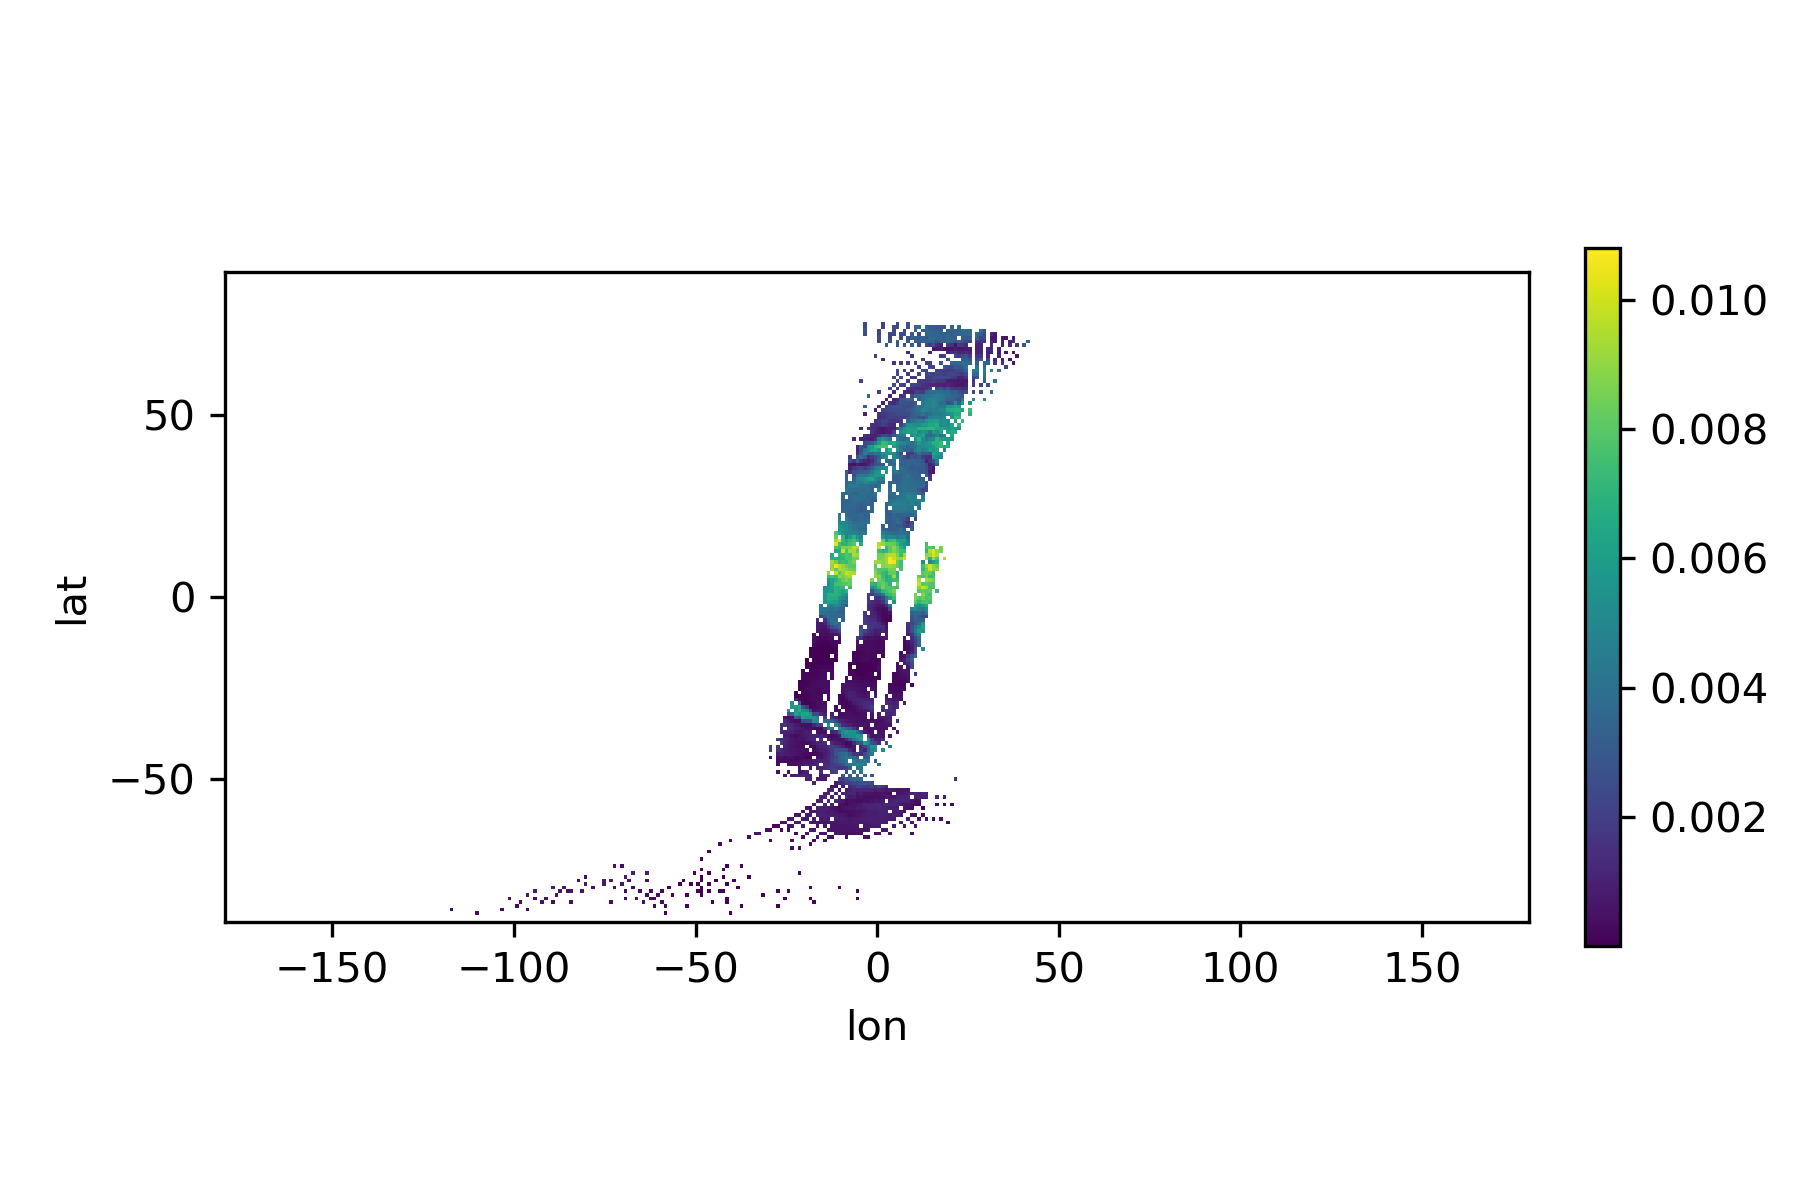
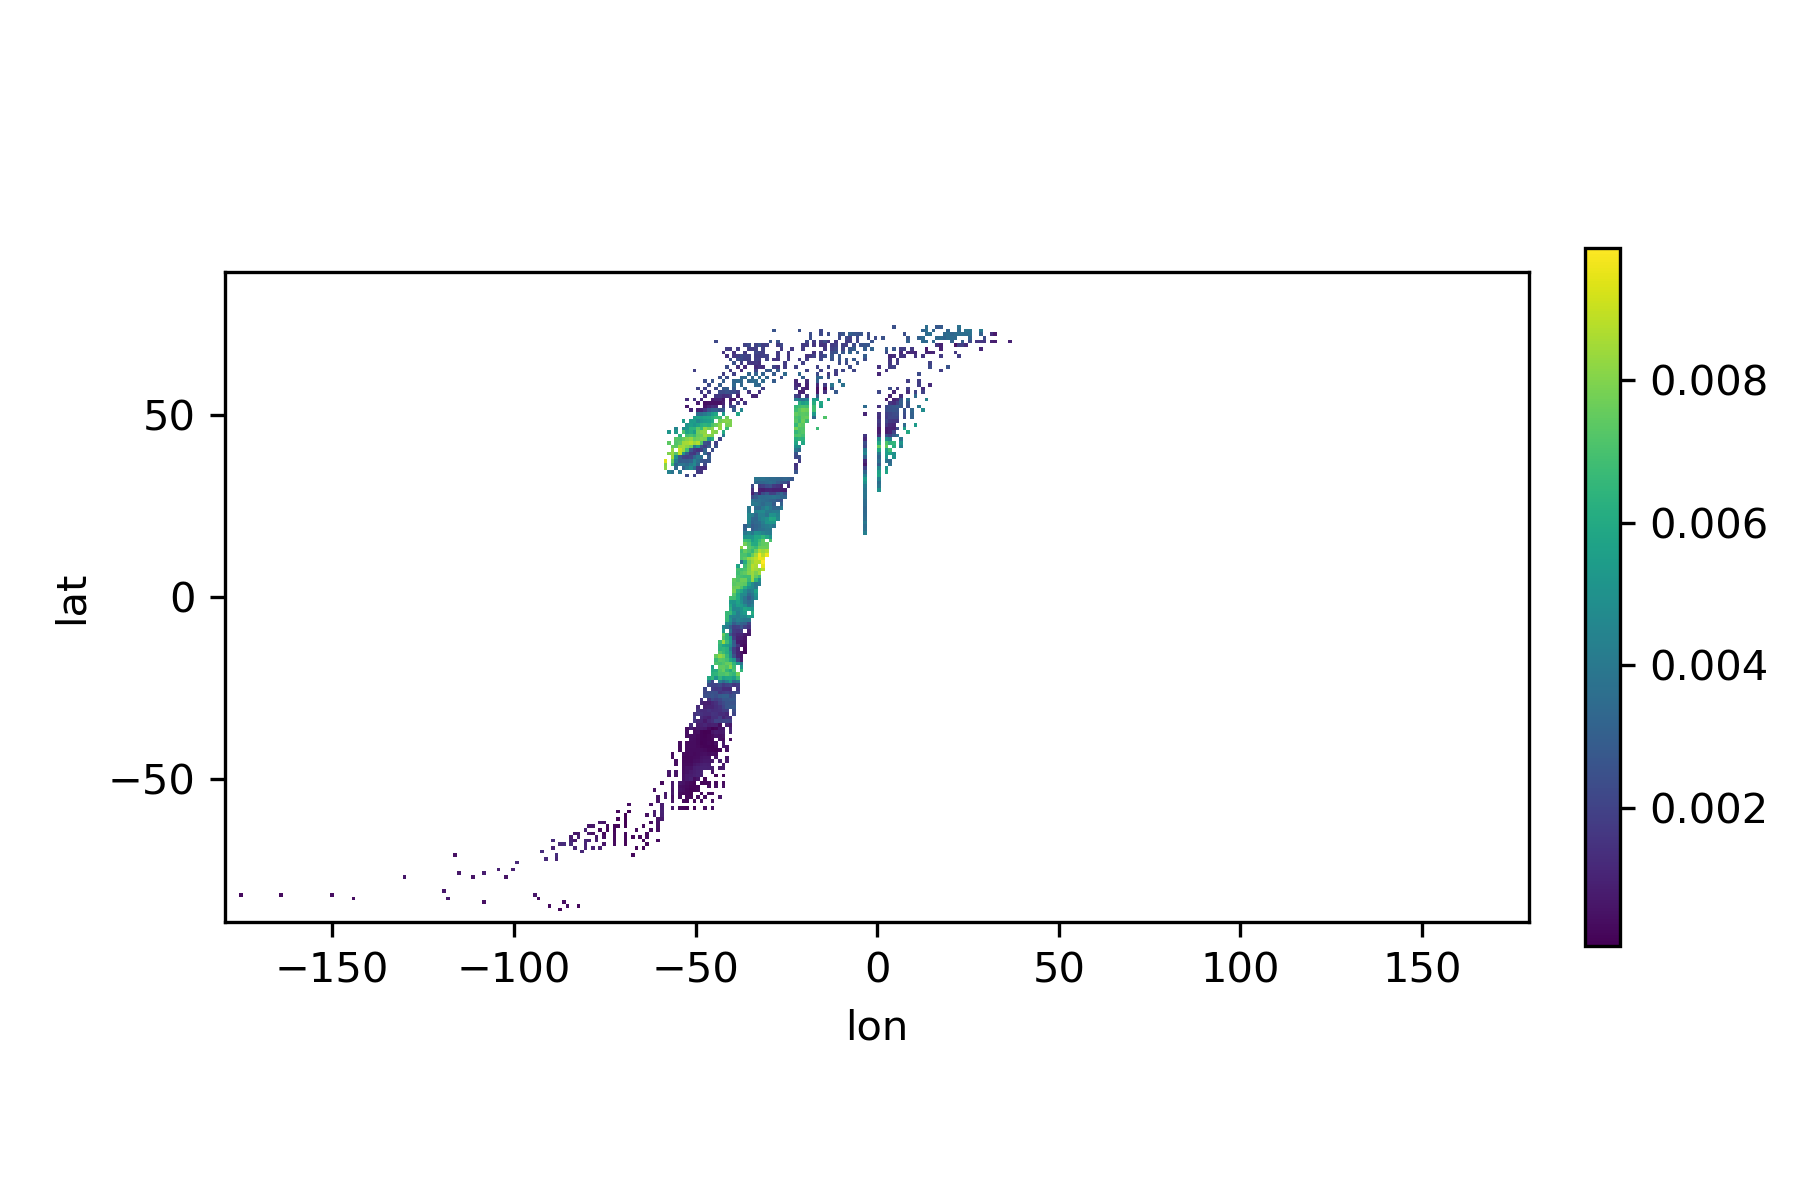
optical flow implemented on swathes

diff --git a/src/first_stage_amv.py b/src/first_stage_amv.py
@@ -10,6 +10,7 @@ import xarray as xr
 import numpy as np
 import metpy.calc as mpcalc
 from metpy.units import units
+import inpainter 
 import cProfile
 
 
@@ -17,25 +18,30 @@ import cProfile
 R = 6371000
 dt_inv=1/3600
 
-label='specific_humidity_mean'
+LABEL='specific_humidity_mean'
 
 
 
 def calc(frame0, frame):
-     nframe0 = cv2.normalize(src=frame0, dst=None,
+    if frame0.shape != frame.shape:
+        frame=np.resize(frame, frame0.shape)
+    
+    
+    nframe0 = cv2.normalize(src=frame0, dst=None,
                             alpha=0, beta=255, norm_type=cv2.NORM_MINMAX, dtype=cv2.CV_8UC1)
-     nframe = cv2.normalize(src=frame, dst=None,
+    nframe = cv2.normalize(src=frame, dst=None,
                             alpha=0, beta=255, norm_type=cv2.NORM_MINMAX, dtype=cv2.CV_8UC1)
-     optical_flow = cv2.optflow.createOptFlow_DeepFlow()
-     flowd = optical_flow.calc(nframe0, nframe, None)
-     flowx=flowd[:,:,0]
-     flowy=flowd[:,:,1]
+    optical_flow = cv2.optflow.createOptFlow_DeepFlow()
+    flowd = optical_flow.calc(nframe0, nframe, None)
+    flowx=flowd[:,:,0]
+    flowy=flowd[:,:,1]
      
-     return flowx, flowy
+    return flowx, flowy
  
-def frame_retreiver(ds, satellite):
-    frame= ds[label].loc[{'satellite':satellite}].values        
+def frame_retreiver(ds):
+    frame= ds[LABEL].values        
     frame[frame == 0] = np.nan
+    frame=inpainter.drop_nan(frame)
     return frame
     
 def ds_unit_calc0(ds, day,pressure, time):
@@ -53,31 +59,79 @@ def ds_unit_calc(ds, day,pressure, time):
     suma=0
     latlona=ds['latitude'].values.shape[0]*ds['longitude'].values.shape[0]
     print(latlona)
-    ds_unit=ds.loc[{'day':day ,'plev':pressure,'time':time}]
-    ds_unit['humidity_overlap'] = xr.full_like(ds_unit['specific_humidity_mean'], fill_value=np.nan)
-    
-    ds_j1=ds_unit.loc[{'satellite':'j1'}]
-    ds_snpp=ds_unit.loc[{'satellite':'snpp'}]
+    ds=ds.loc[{'day':day ,'plev':pressure,'time':time}]
+    ds=ds.drop(['day','plev','time'])
+    ds['humidity_overlap'] = xr.full_like(ds['specific_humidity_mean'], fill_value=np.nan)
+    ds['flowx'] = xr.full_like(ds['specific_humidity_mean'], fill_value=np.nan)
+    ds['flowy'] = xr.full_like(ds['specific_humidity_mean'], fill_value=np.nan)
 
-    
-    condition1=xr.ufuncs.logical_not(xr.ufuncs.isnan(ds_j1['obs_time']))
-    condition2=xr.ufuncs.logical_not(xr.ufuncs.isnan(ds_snpp['obs_time']))
-    
-    ds_unit['humidity_overlap'].loc[{'satellite':'j1'}]=ds_j1['specific_humidity_mean'] .where(
-        condition1 & condition2)
-    ds_unit['humidity_overlap'].loc[{'satellite':'snpp'}]=ds_snpp['specific_humidity_mean'].where(
-        condition1 & condition2)
-        
-        
-    mind=ds_unit['obs_time'].min(skipna=True).values
-    hours=np.arange(2,14,2)
+    df=ds.to_dataframe()
+
+    dhours=1      
+    mind=ds['obs_time'].min(skipna=True).values
+    hours=np.arange(dhours,5,dhours)
     swathes=[]
-    swathes.append([mind, mind+np.timedelta64(2, 'h')])
+
+    swathes.append([mind, mind+np.timedelta64(dhours, 'h')])
     for hour in hours:
         swathes.append([mind+np.timedelta64(hour, 'h'),
-                        mind+np.timedelta64(hour+2, 'h')])
+                        mind+np.timedelta64(hour+dhours, 'h')])
+        
+    for swath in swathes:
+        ds_snpp=ds.loc[{'satellite':'snpp'}]
+        ds_j1=ds.loc[{'satellite':'j1'}]
+        start=swath[0]
+        end=swath[1]
+        
+        print('end1:')
+        print(end)
+        ds_snpp=ds_snpp.where((ds_snpp.obs_time > start) & (ds_snpp.obs_time<end))
+        start=start+np.timedelta64(50, 'm')
+        end=end+np.timedelta64(50, 'm')
+        print('end2:')
+        print(end)
+        
+        ds_j1=ds_j1.where((ds_j1.obs_time > start) & (ds_j1.obs_time<end))
+        condition1=xr.ufuncs.logical_not(xr.ufuncs.isnan(ds_j1['obs_time']))
+        condition2=xr.ufuncs.logical_not(xr.ufuncs.isnan(ds_snpp['obs_time']))
+        ds_j1_unit=ds_j1['specific_humidity_mean'].where(condition1 & condition2)
+        ds_snpp_unit=ds_snpp['specific_humidity_mean'].where(condition1 & condition2)
+        df_j1=ds_j1_unit.to_dataframe().dropna(subset=[LABEL]).set_index('satellite',append=True)
+        df_snpp=ds_snpp_unit.to_dataframe().dropna(subset=[LABEL]).set_index('satellite',append=True)
+        ds_j1=xr.Dataset.from_dataframe(df_j1)
+        ds_snpp=xr.Dataset.from_dataframe(df_snpp)
+        frame0=frame_retreiver(ds_snpp)
+        frame=frame_retreiver(ds_j1)
+        print(ds_j1)
+        print(ds_snpp)
+        flowx,flowy=calc(frame0, frame)
+        flowx = np.expand_dims(flowx, axis=2)
+        flowy = np.expand_dims(flowy, axis=2)
+        ds_snpp['flowx']=(['latitude','longitude','satellite'],flowx)
+        ds_snpp['flowy']=(['latitude','longitude','satellite'],flowy)
+        ds_j1['flowx']=(['latitude','longitude','satellite'],flowx)
+        ds_j1['flowy']=(['latitude','longitude','satellite'],flowy) 
+        
+        df_j1=ds_j1.to_dataframe()
+        df_snpp=ds_snpp.to_dataframe()
+        
+        swathi=df_snpp.index.values 
+        df['humidity_overlap'].loc[df.index.isin(swathi)]=df_snpp['specific_humidity_mean']
+        df['flowx'].loc[df.index.isin(swathi)]=df_snpp['flowx']
+        df['flowy'].loc[df.index.isin(swathi)]=df_snpp['flowy']
+
+        swathi=df_j1.index.values 
+        #print(swathi)
+        df['humidity_overlap'].loc[df.index.isin(swathi)]=df_j1['specific_humidity_mean']
+        df['flowx'].loc[df.index.isin(swathi)]=df_j1['flowx']
+        df['flowy'].loc[df.index.isin(swathi)]=df_j1['flowy']
+        
+        
+
+    ds=xr.Dataset.from_dataframe(df)
+ 
     
-    return ds_unit    
+    return ds   
         
     
         

diff --git a/src/plotter.py b/src/plotter.py
@@ -39,14 +39,15 @@ def main():
     mind=ds_map['obs_time'].min(skipna=True).values
     #print(mind)
     timedelta=mind+np.timedelta64(2, 'h')
-    ds_map=ds_map.where((ds_map.obs_time>mind) & (ds_map.obs_time<timedelta))
+    #ds_map=ds_map.where((ds_map.obs_time>mind) & (ds_map.obs_time<timedelta))
     map_plotter(ds_map, 'snpp_o', 'humidity_overlap', ' ', 0, 0.014)
     map_plotter(ds_map, 'snpp', 'specific_humidity_mean', ' ', 0, 0.014)
     
     ds_map=ds.loc[{'day':datetime(2020,7,3),'plev':706.6,'time':'am','satellite':'j1'}]
     
     timedelta=mind+np.timedelta64(2, 'h')
-    ds_map=ds_map.where((ds_map.obs_time>mind) & (ds_map.obs_time<timedelta))
+    #ds_map=ds_map.where((ds_map.obs_time>mind) & (ds_map.obs_time<timedelta))
+    map_plotter(ds_map, 'j1_o', 'humidity_overlap', ' ', 0, 0.014)
     map_plotter(ds_map, 'j1', 'specific_humidity_mean', ' ', 0, 0.014)
     
 if __name__=="__main__":

diff --git a/src/quiver.py b/src/quiver.py
@@ -26,8 +26,9 @@ def quiver_plot(ds, title):
     plt.close()
     
     
-ds=xr.open_dataset('../data/processed/real_water_vapor_noqc_test.nc')
-ds_map=ds.loc[{'day':datetime(2020,1,1),'plev':slice(706,707),'time':'pm'}]
+ds=xr.open_dataset('../data/processed/real_water_vapor_noqc_test2.nc')
+print(ds)
+ds_map=ds.loc[{'day':datetime(2020,7,3),'plev':slice(706,707),'time':'pm','satellite':'snpp'}]
 ds_map = ds_map.coarsen(longitude=10, boundary='trim').mean().coarsen(
             latitude=10, boundary='trim').mean()
 quiver_plot(ds_map, 'test')
